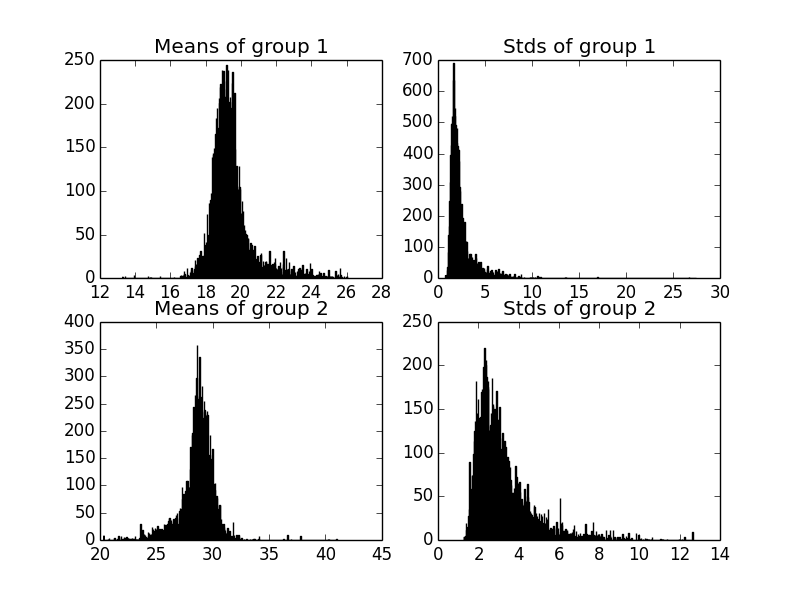
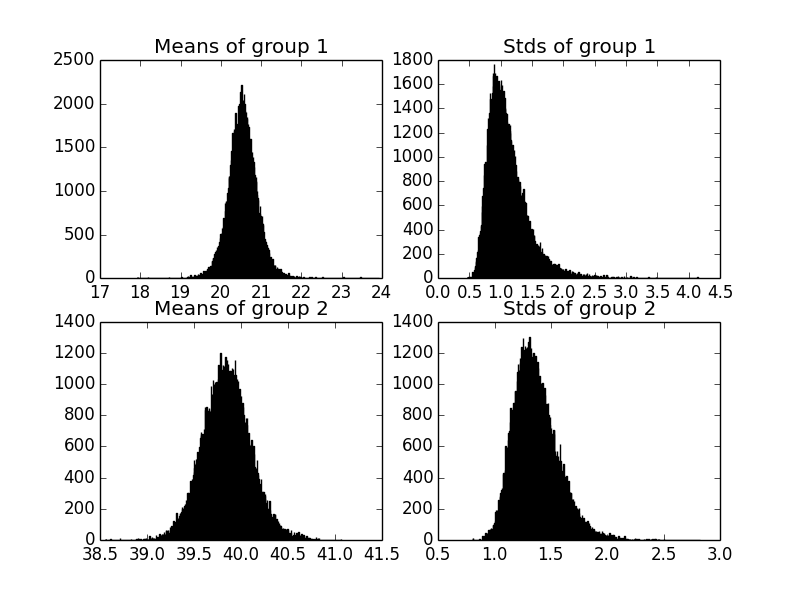
Can handle different sized groups (with initial-help and no reordering)

diff --git a/playground/emcee/1D-2group-simulator.py b/playground/emcee/1D-2group-simulator.py
@@ -30,6 +30,8 @@ parser = argparse.ArgumentParser()
 
 parser.add_argument('-s', '--nstars', dest='s', default=50,
 												help='number of stars')
+parser.add_argument('-f', '--fraction', dest='f', default=0.25,
+												help='fraction of stars in group 1')
 parser.add_argument('-w', '--nwalkers', dest='w', default=150,
 												help='number of walkers')
 parser.add_argument('-p', '--steps', dest='p', default=500,
@@ -51,8 +53,9 @@ initial_help = True		  # If walkers are initialised around desired result
 reorder_samples = args.order # If final sample parameters are reordered
 nstars = int(args.s)
 nwalkers = int(args.w)
+fraction = float(args.f)
 ndim = 1								# number of phys. dim. being looked at, max 6
-npar = 4								# Number of param. required to define a sample
+npar = 5								# Number of param. required to define a sample
 												# 2 params. per group per dimension (mean and stdev)
 burninsteps = 100				# Number of burn in steps
 samplingsteps = int(args.p)	# Number of sampling steps
@@ -71,22 +74,22 @@ if (reorder_samples):
 # ... with hard coded mean position with pos in pc and vel in km/s
 # means = [35.0, 0.0, 0.0, -10.0, -20.0, -5.0]
 means1 = [20.0]
-means2 = [30.0]
+means2 = [40.0]
 
 # ... and some standard deviations
-stds1 = [3.0]
-stds2 = [3.0]
+stds1 = [1.0]
+stds2 = [1.0]
 #stds = [3.0, 3.0, 3.0, 1.0, 1.0, 1.0]
 
 # Initialising a set of [nstars] stars to have UVWXYZ as determined by 
 # means and standard devs
 # [nstars]/2 from one group, [nstars]/2 from the other
 stars = np.zeros((nstars,ndim))
-for i in range(nstars/2):
+for i in range(int(nstars*fraction)):
 	for j in range(ndim):
 		stars[i][j] = np.random.normal(means1[j], stds1[j])
 
-for i in range(nstars/2, nstars):
+for i in range(int(nstars*fraction), nstars):
 	for j in range(ndim):
 		stars[i][j] = np.random.normal(means2[j], stds2[j])
 
@@ -104,16 +107,17 @@ def gaussian_eval(x, mu, sig):
 	result = 1.0/(abs(sig)*math.sqrt(2*math.pi))*np.exp(-(x-mu)**2/(2*sig**2))
 	return result
 
-def lnprob(x, stars):
+def lnprob(pars, stars):
 	nstars = stars.size
-	mu1  = x[0]
-	sig1 = x[1]
-	mu2  = x[2]
-	sig2 = x[3]
+	mu1  = pars[0]
+	sig1 =abs(pars[1])
+	w1   = abs(pars[2])
+	mu2  = pars[3]
+	sig2 = abs(pars[4])
 	sumlnprob = 0
 	for i in range(nstars):
-		result = np.log( gaussian_eval(stars[i][0], mu1, sig1) +
-										 gaussian_eval(stars[i][0], mu2, sig2) )
+		result = np.log(1.0/(1 + w1) * gaussian_eval(stars[i][0], mu1, sig1) +
+										1.0/(1.0/w1 + 1) * gaussian_eval(stars[i][0], mu2, sig2) )
 		sumlnprob += result
 	return sumlnprob
 
@@ -139,6 +143,7 @@ if (initial_help):
 	p0 = [
 					[np.random.uniform(means1[0] -5,  means1[0]+5 ),
 					 np.random.uniform(stds1[0] -0.5, stds1[0]+0.5),
+					 np.random.uniform(2, 3),
 					 np.random.uniform(means2[0] -5,  means2[0]+5 ),
 					 np.random.uniform(stds2[0] -0.5, stds2[0]+0.5)]
 				for i in xrange(nwalkers)]
@@ -179,8 +184,9 @@ else:
 
 model_mu1  = np.median(samples[:,0])
 model_sig1 = np.median(abs(samples[:,1]))
-model_mu2  = np.median(samples[:,2])
-model_sig2 = np.median(abs(samples[:,3]))
+model_w1   = np.median(abs(samples[:,2]))
+model_mu2  = np.median(samples[:,3])
+model_sig2 = np.median(abs(samples[:,4]))
 
 # Taking average of sampled means and sampled stds
 # Can compare that to the mean and std on which the stars were
@@ -189,10 +195,12 @@ model_sig2 = np.median(abs(samples[:,3]))
 print(" ____ GROUP 1 _____ ")
 print("Modelled mean: {}, modelled std: {}".format(model_mu1, model_sig1))
 print("'True' mean: {}, 'true' std: {}".format(means1[0], stds1[0]))
+print("With {}% of the stars".format(100.0/(1+model_w1)))
 
 print(" ____ GROUP 2 _____ ")
 print("Modelled mean: {}, modelled std: {}".format(model_mu2, model_sig2))
 print("'True' mean: {}, 'true' std: {}".format(means2[0], stds2[0]))
+print("With {}% of the stars".format(100.0/(1+1.0/model_w1)))
 
 
 # Print a list of each star and their predicted group by percentage
@@ -206,9 +214,9 @@ if(print_table):
 		likelihood2 = gaussian_eval(stars[i][0], model_mu2, model_sig2)
 		prob1 = likelihood1 / (likelihood1 + likelihood2) * 100
 		prob2 = likelihood2 / (likelihood1 + likelihood2) * 100
-		if (i < nstars/2) & (prob1 > prob2):
+		if (i < nstars*fraction) & (prob1 > prob2):
 			success_cnt += 1.0
-		if (i >= nstars/2) & (prob1 < prob2):
+		if (i >= nstars*fraction) & (prob1 < prob2):
 			success_cnt += 1.0
 		print("{}\t{:10.2f}%\t{:10.2f}%".format(i, prob1, prob2))
 	print("Success rate of {:6.2f}%".format(success_cnt/nstars * 100))
@@ -237,12 +245,12 @@ if(plotit):
 		pl.title("Stds of group 1")
 		
 		pl.subplot(223)
-		mus = [mu for mu in samples[:,2] if (mu > -30) & (mu < 100)]
+		mus = [mu for mu in samples[:,3] if (mu > -30) & (mu < 100)]
 		pl.hist(mus, nbins)
 		pl.title("Means of group 2")
 
 		pl.subplot(224)
-		sigs = [abs(sig) for sig in samples[:,3] if abs(sig) < 30]
+		sigs = [abs(sig) for sig in samples[:,4] if abs(sig) < 30]
 		pl.hist(sigs, nbins)
 		pl.title("Stds of group 2")
 
